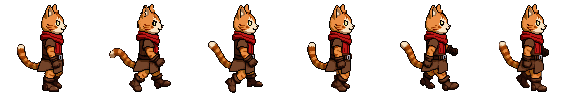
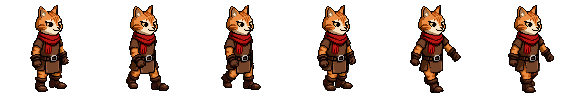
고양이를 비스듬한 3/4 각도의 PixelLab 그림과 걷기 프레임으로 교체
Claude-Session: https://claude.ai/code/session_01LkFmKvFUbfx1FwiouzbzW9

diff --git a/client/js/chars.js b/client/js/chars.js
@@ -250,10 +250,10 @@ function drawWeaponHi(it) {
 }
 
 // ---------- 고양이 영웅 (PixelLab으로 만든 그림) ----------
-// img/cat_east.png: 오른쪽을 보고 서 있는 모습(96x96). 대기 동작은 이 그림을 부위별로 조금씩 움직여서 만듦.
-// img/cat_walk.png: PixelLab이 만든 걷는 모습 6장(96x96씩 가로로 이어 붙임).
+// img/cat_east.png: 오른쪽 앞(몬스터 쪽, 비스듬한 3/4 각도)을 보고 서 있는 모습(96x96). 대기 동작은 이 그림의 머리와 가슴을 조금씩 움직여서 만듦.
+// img/cat_walk.png: PixelLab이 만든 같은 각도의 걷는 모습 6장(96x96씩 가로로 이어 붙임).
 // 장비는 겉모습에 그려지지 않고, 무기는 앞쪽 장갑 위치(HERO.hand)에 따로 얹음
-const HERO = { east: null, walkImg: null, ready: false, idle: [], walk: [], hurt: null, base: null, feet: 91, hand: [29, 32] };
+const HERO = { east: null, walkImg: null, ready: false, idle: [], walk: [], hurt: null, base: null, feet: 91, hand: [32, 31] };
 function heroLoad() {
   if (HERO.east || typeof Image === 'undefined') return;
   let n = 0;
@@ -262,23 +262,18 @@ function heroLoad() {
   HERO.walkImg = new Image(); HERO.walkImg.onload = done; HERO.walkImg.src = 'img/cat_walk.png';
 }
 function heroIdleFrame(o) {
-  // o: dyHead, dyChest (위로 올리는 칸 수), tail (꼬리 흔들림 크기), ph (위상)
+  // o: dyHead, dyChest (위로 올리는 칸 수)
   const im = HERO.east, s = _mk(96, 96), g = s.g, sl = (sx, sy, sw, sh, dx, dy) => g.drawImage(im, sx, sy, sw, sh, sx + dx, sy + dy, sw, sh);
-  sl(34, 72, 32, 24, 0, 0);                                    // 다리
-  for (let y = 38; y < 74; y += 2) {                           // 꼬리: 줄마다 위아래로 살랑거림 (끝이 더 크게)
-    const k = (74 - y) / 36, dy = Math.round(Math.sin(o.ph + y * 0.18) * (o.tail || 0) * k);
-    g.drawImage(im, 12, y, 26, 2, 12, y + dy, 26, 2);
-  }
-  sl(36, 34, 30, 40, 0, 0);                                    // 몸통
-  sl(36, 34, 30, 16, 0, o.dyChest || 0);                       // 가슴과 스카프
-  sl(30, 2, 38, 36, 0, o.dyHead || 0);                         // 머리
+  sl(30, 70, 40, 26, 0, 0);                                    // 다리
+  sl(28, 34, 44, 40, 0, 0);                                    // 몸통과 팔
+  sl(28, 34, 44, 16, 0, o.dyChest || 0);                       // 가슴과 스카프
+  sl(28, 2, 42, 36, 0, o.dyHead || 0);                         // 머리
   return s.c;
-}
-function heroBuild() {
+}function heroBuild() {
   HERO.base = heroIdleFrame({ ph: 0 });
   for (let f = 0; f < 8; f++) {                                // 대기: 숨 쉬듯 머리와 가슴이 오르내리고 꼬리가 살랑거림
     const p = f / 8 * Math.PI * 2, b = (Math.sin(p) + 1) / 2;
-    HERO.idle.push(heroIdleFrame({ dyHead: -(b > 0.3 ? 1 : 0) - (b > 0.85 ? 1 : 0), dyChest: b > 0.55 ? -1 : 0, tail: 2.5, ph: p }));
+    HERO.idle.push(heroIdleFrame({ dyHead: -(b > 0.3 ? 1 : 0) - (b > 0.85 ? 1 : 0), dyChest: b > 0.55 ? -1 : 0 }));
   }
   for (let f = 0; f < 6; f++) { const c = _mk(96, 96); c.g.drawImage(HERO.walkImg, f * 96, 0, 96, 96, 0, 0, 96, 96); HERO.walk.push(c.c); }
   const h = _mk(96, 96); h.g.drawImage(HERO.base, 0, 0); h.g.globalCompositeOperation = 'source-atop'; h.g.fillStyle = 'rgba(255,60,60,0.5)'; h.g.fillRect(0, 0, 96, 96);

diff --git a/기획서.md b/기획서.md
@@ -420,10 +420,10 @@
 
 ## 44. 고양이 영웅 그림 (PixelLab) + 움직임
 
-- 고양이는 PixelLab(AI 도트 생성)으로 만든 그림을 씁니다. 갈색 튜닉과 빨간 스카프를 입은 줄무늬 고양이를 PixelLab의 "방향 돌리기"로 오른쪽(몬스터 쪽)을 보게 만들었습니다.
-  - `client/img/cat_east.png`(96x96): 오른쪽을 보고 서 있는 모습. 대기 동작은 코드가 머리·가슴·꼬리를 조금씩 움직여 만듭니다(숨 쉬는 모습).
-  - `client/img/cat_walk.png`: PixelLab이 만든 걷는 모습 6장(96x96씩 가로로 이어 붙임).
+- 고양이는 PixelLab(AI 도트 생성)으로 만든 그림을 씁니다. 갈색 튜닉과 빨간 스카프를 입은 줄무늬 고양이를 PixelLab의 "방향 돌리기"로 오른쪽 앞(몬스터 쪽, 비스듬한 3/4 각도)을 보게 만들었습니다. 정면(옆모습 90도)보다 이런 장르 게임에 흔한 각도입니다.
+  - `client/img/cat_east.png`(96x96): 오른쪽 앞을 보고 서 있는 모습(꼬리는 몸에 가려짐). 대기 동작은 코드가 머리·가슴을 조금씩 움직여 만듭니다(숨 쉬는 모습).
+  - `client/img/cat_walk.png`: PixelLab이 만든 같은 각도의 걷는 모습 6장(96x96씩 가로로 이어 붙임).
   - 피격은 대기 그림을 붉게 물들여 표현합니다. 코드는 chars.js `HERO`, `heroSprite`.
 - 고양이는 평상복이 그림에 그려져 있어서 모자/갑옷 장비는 겉모습에 표시되지 않습니다. 무기는 앞쪽 장갑 위치(`HERO.hand`)에 따로 얹힙니다.
 - 강아지는 아직 예전 코드 그림입니다.
-- PixelLab 키는 `픽셀랩키.txt`(깃 제외). 무료 체험 한도 안에서만 사용하고 결제는 쓰지 않습니다. 걷는 모습 한 번에 3회, 방향 돌리기 2회가 들었고 남은 한도는 약 20회입니다.
+- PixelLab 키는 `픽셀랩키.txt`(깃 제외). 무료 체험 한도 안에서만 사용하고 결제는 쓰지 않습니다. 방향 돌리기 두 번(2회+2회)과 걷는 모습 두 번(3회+3회)에 약 10회를 썼고 남은 한도는 약 15회입니다.
